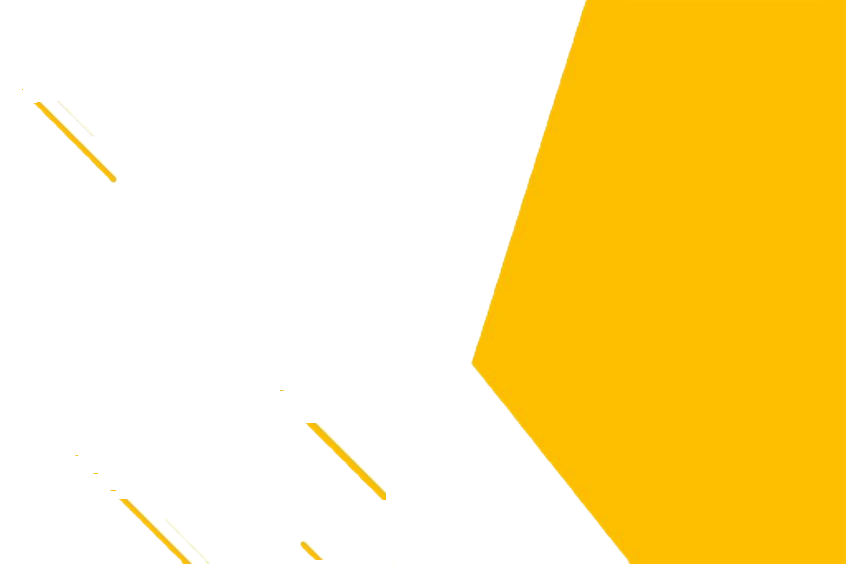
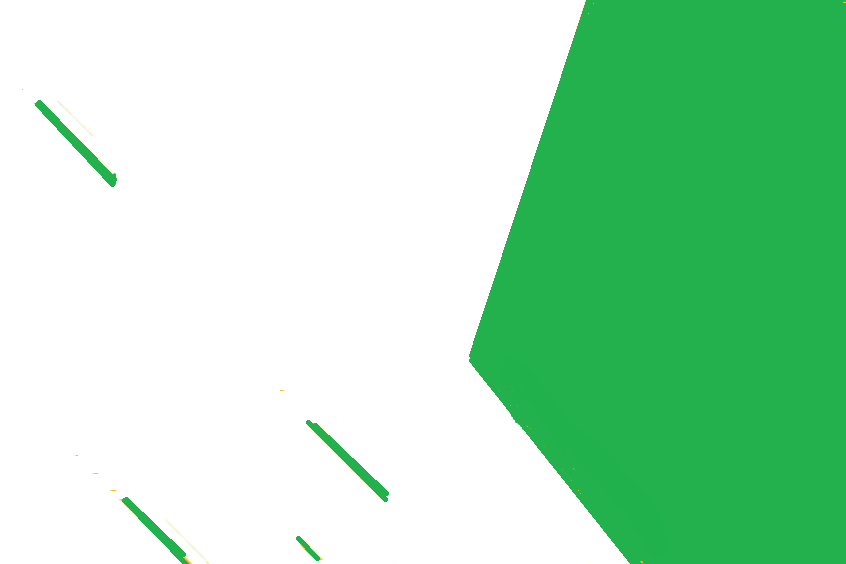
Editing

diff --git a/src/components/menu/Menu.jsx b/src/components/menu/Menu.jsx
@@ -8,9 +8,10 @@ function Menu() {
   useEffect(() => {
     async function fetchData() {
       try {
-        const response = await axios.get("https://mocki.io/v1/a51ef70a-5a39-41d2-b5f2-d9b2e01f0566");
-        console.log(response.data);
-        setFoods(response.data.resturants); // Assuming response.data is an array of food items
+        const response = await axios.get(
+          "https://mocki.io/v1/a51ef70a-5a39-41d2-b5f2-d9b2e01f0566"
+        );
+        setFoods(response.data.resturants);
       } catch (error) {
         console.error("Error fetching data:", error);
       }
@@ -20,7 +21,6 @@ function Menu() {
   }, []);
   const handleSeeMore = () => {
     setVisibleCount((prevCount) => prevCount + 8);
-    // fetchData();
   };
   const addToCart = (foodId) => {
     let cart = JSON.parse(localStorage.getItem("cart")) || [];
@@ -28,9 +28,10 @@ function Menu() {
     if (foodItem) {
       cart.push(foodItem);
       localStorage.setItem("cart", JSON.stringify(cart));
-      document.getElementById(`addToCartBtn_${foodId}`).disabled = 'true';
+      document.getElementById(`addToCartBtn_${foodId}`).disabled = "true";
       // Change button text to "Added"
       document.getElementById(`addToCartBtn_${foodId}`).innerText = "Added";
+      document.getElementById(`addToCartBtn_${foodId}`).style.backgroundColor='gray'
     }
   };
 
@@ -38,9 +39,9 @@ function Menu() {
     <div className="bg-white py-10 dark:bg-gray-950 dark:text-white ">
       <h1 className="text-[70px] font-bold text-center pb-8">Food List</h1>
       <div className="grid grid-cols-1 gap-10 px-10 lg:px-32 sm:grid-cols-2 md:grid-cols-3 lg:grid-cols-3 xl:grid-cols-4">
-        {foods.slice(0, visibleCount).map((food) => (
+        {foods.slice(0, visibleCount).map((food, idx) => (
           <div
-            key={food.id}
+            key={idx}
             className="bg-white shadow-lg rounded-xl  dark:bg-gray-800 dark:text-white  duration-200 px-8  "
           >
             <img
@@ -49,17 +50,16 @@ function Menu() {
               className="w-[400px] h-[200px] mx-auto  rounded-lg sm:w-[200px] sm:h-[120px] md:w-[350px] md:h-[200px] lg:w-[300px] lg:h-[200px]  hover:scale-105 cursor-pointer"
             />
 
-
             <span className="text-sm pfont-bold py-2 pb-0 sm:text-lg md:text-xl lg:text-2xl pe-10">
               {food.name}
             </span>
             <p className="text-gray-400 pb-4 sm:text-xs lg:text-sm">
               {food.cuisine}
             </p>
-            <p className="text-primary text-xl">{food.price}</p>
+            <p className="text-secondary text-xl">{food.price}</p>
             <p className="text-sm sm:text-xs lg:text-sm">{food.description}</p>
             <button
-            id={`addToCartBtn_${food.id}`}
+              id={`addToCartBtn_${food.id}`}
               className="bg-secondary text-white px-3 mt-4 text-xl rounded-xl mb-5 py-1 hover:scale-105 sm:text-sm  lg:text-lg"
               onClick={() => addToCart(food.id)}
             >

diff --git a/src/components/welcome/welcome.jsx b/src/components/welcome/welcome.jsx
@@ -46,7 +46,7 @@ export default function Welcom() {
               <div className="flex flex-col gap-4 justify-center text-center pt-12 sm:pt-0 sm:text-left order-2 sm:order-2">
                 <h1 className="text-5xl sm:text-6xl lg:text-7xl font-bold  ">
                   Welcome
-                  <span class="bg-clip-text text-transparent bg-gradient-to-b from-primary to-secondary">
+                  <span className="bg-clip-text text-transparent bg-gradient-to-b from-primary to-secondary">
                     {" "}
                     Foody{" "}
                   </span>
@@ -67,11 +67,9 @@ export default function Welcom() {
             <div className="min-h-[450px] sm:min-h-[450px] flex justify-center items-center relative order-1 sm:order-1 ">
               <div className="h-[300px] sm:h-[450px] overflow-hidden flex justify-center items-center">
                 <img
-                  data-aos="zoom-in"
-                  data-aos-duration="300"
-                  data-aos-once="true"
+              
                   src={img}
-                  className="w-[400px] sm:w-[500px] mx-auto animate-spin"
+                  className="w-[300px] sm:w-[400px] mx-auto animate-spin"
                 />
               </div>
 

diff --git a/src/components/Cart/Cart.jsx b/src/components/Cart/Cart.jsx
@@ -15,11 +15,11 @@ export default function Cart() {
     };
   
   return (
-    <div className="px-10 pb-48 dark:bg-gray-950 dark:text-white h-[100vh]">
+    <div className="px-10 pb-48 dark:bg-gray-950 dark:text-white h-[100%]]">
       <h1 className="font-bold text-2xl py-10">You Cart</h1>
-      <div className="grid grid-cols-1 gap-10 px-10 lg:px-32 sm:grid-cols-2 md:grid-cols-3 lg:grid-cols-4">        {cartItems.map((food) => (
+      <div className="grid grid-cols-1 gap-10 px-10 lg:px-32 sm:grid-cols-2 md:grid-cols-3 lg:grid-cols-4">        {cartItems.map((food,idx) => (
           <div
-          key={food.id}
+          key={idx}
           className="bg-white shadow-lg rounded-xl  dark:bg-gray-800 dark:text-white  duration-200 px-8  "
         >
           <img
@@ -34,7 +34,7 @@ export default function Cart() {
             <p className="text-gray-400 pb-4 sm:text-xs lg:text-sm">
               {food.cuisine}
             </p>
-            <p className="text-primary text-xl">{food.price}</p>
+            <p className="text-secondary text-xl">{food.price}</p>
           <p className="text-sm sm:text-xs lg:text-sm">{food.description}</p>
           <div className="grid grid-cols-2 gap-x-10 items-center">
           <button

diff --git a/src/components/Services/Services.jsx b/src/components/Services/Services.jsx
@@ -36,7 +36,7 @@ export default function Services() {
         {/* Cards */}
         <div className="grid grid-cols-1 gap-28 sm:grid-cols-1 md:grid-cols-2 xl:grid-cols-3 place-items-center mt-16 lg:mx-60 sm:mx-0 ">
             {cards.map((card,idx)=>(
-            <div key={idx} className="group p-3 max-h-[230px] bg-white shadow-xl text-center max-w-[300px] duration-300 rounded-2xl cursor-pointer hover:bg-primary hover:text-white dark:bg-gray-800 dark:text-white  ">
+            <div key={idx} className="group p-3 max-h-[230px] bg-white shadow-xl text-center max-w-[300px] duration-300 rounded-2xl cursor-pointer hover:text-white dark:bg-gray-800 dark:hover:bg-secondary dark:text-white hover:bg-primary ">
                 <div>
                 <img src={card.imgUrl} className="w-52 mx-auto transform -translate-y-14 group-hover:scale-105 group-hover:rotate-6 duration-300 "/>
 

diff --git a/src/components/Navbar/Navbar.jsx b/src/components/Navbar/Navbar.jsx
@@ -10,17 +10,20 @@ export default function Navbar() {
     <div className="shadow-md bg-white dark:bg-gray-900 dark:text-white duration-200">
       <div className="container">
         <div className="flex items-center justify-between">
+        <Theme/>
+
           <div>
           <Link
               to="/"
-              className="flex gap-x-1 items-center font-bold text-2xl sm:text-3xl"
+              className="flex gap-x-1 items-center font-bold text-2xl sm:text-5xl "
             >
               <img src={logo} className="w-10 h-10" alt="Logo" />
               Foody
             </Link>
+    
           </div>
+
           <div className="flex items-center gap-4">
-            <Theme/>
             <ul className="hidden sm:flex gap-4 text-lg">
               {navbarLinks.map((link,indx) => (
                 <li key={indx} >

diff --git a/src/components/Navbar/Theme.jsx b/src/components/Navbar/Theme.jsx
@@ -30,8 +30,8 @@ export default function Theme() {
     <>
     <div className='relative'>
 
-        <img src={darkImg} onClick={changeTheme} className={`w-12 absolute cursor-pointer ${theme!='dark'?"opacity-0":'opacity-100'}`}/>
-        <img src={lightImg} className='w-12 '/>
+        <img src={darkImg} onClick={changeTheme} className={`text-2xl absolute cursor-pointer ${theme!='dark'?"opacity-0":'opacity-100'}`}/>
+        <img src={lightImg} className='w-11 '/>
 
     </div>
     </>

diff --git a/src/components/Banner/Banner.jsx b/src/components/Banner/Banner.jsx
@@ -37,7 +37,7 @@ export default function
             </p>
            
             <div>
-              <button className="bg-gradient-to-r from-primary to-secondary text-white py-2 px-4 rounded-full shadow-xl hover:shadow-md">
+              <button className="bg-gradient-to-r from-primary to-secondary text-white py-2 px-4 rounded-full shadow-xl hover:shadow-md hover:scale-105">
                 Order Now
               </button>
             </div>

diff --git a/src/components/Footer/Footer.jsx b/src/components/Footer/Footer.jsx
@@ -16,7 +16,7 @@ const Footer = () => {
           <div className=" py-8 px-4 ">
             <h1 className="sm:text-3xl text-xl font-bold sm:text-left text-justify mb-3 flex items-center gap-3">
               <img src={footerLogo} alt="Logo" className="max-w-[50px]" />
-              FOODIE
+              FOODY
             </h1>
             <p className="">
               Lorem ipsum dolor sit amet consectetur. Lorem ipsum dolor sit amet

diff --git a/tailwind.config.js b/tailwind.config.js
@@ -8,8 +8,8 @@ export default {
   theme: {
     extend: {
       colors:{
-        primary:'#ffc001',
-        secondary:'#ff9c01'
+        primary:'#00e600',
+        secondary:'#009900'
 
       },
       animation: {
